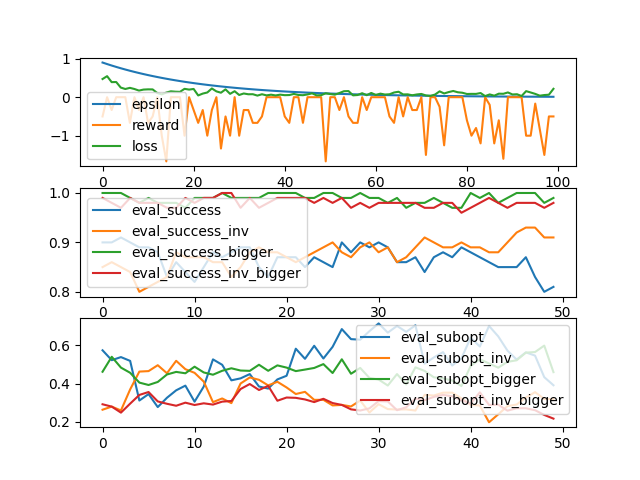
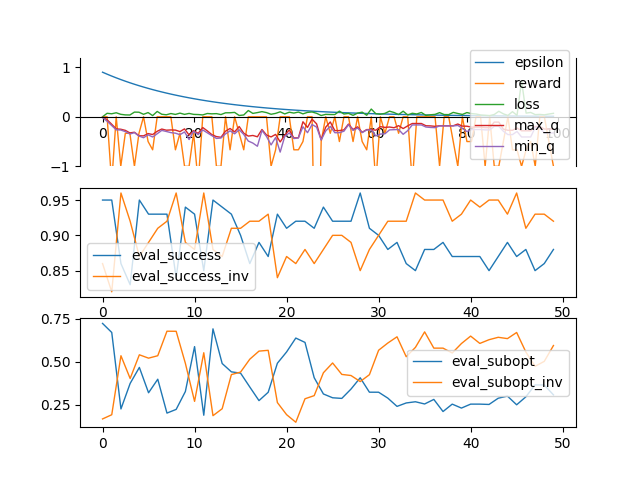
better plotting longer optimization

diff --git a/planner/mapf_with_rl/mapf_with_rl.py b/planner/mapf_with_rl/mapf_with_rl.py
@@ -153,10 +153,15 @@ class Qfunction(torch.nn.Module):
     def __init__(self, num_node_features, num_actions,
                  hidden_channels) -> None:
         super().__init__()
+        INIT_STD = .01
         self.conv1 = GCNConv(num_node_features, hidden_channels)
         self.conv2 = GCNConv(hidden_channels, hidden_channels)
         # self.conv3 = GCNConv(hidden_channels, hidden_channels)
         self.lin = Linear(hidden_channels*3, num_actions)
+
+        for net in [self.conv1, self.conv2, self.lin]:
+            torch.nn.init.normal_(net.weight, 0, INIT_STD)
+            torch.nn.init.normal_(net.bias, 0, INIT_STD)
 
     def forward(self, data: Data):
         x = data.x
@@ -288,8 +293,8 @@ def q_learning(n_episodes: int, eps_start: float,
     n_data_test = 100
     data_test_small = make_useful_scenarios(
         n_data_test, n_episodes * 11, ignore_finished_agents, 4, 3)
-    data_test_bigger = make_useful_scenarios(
-        n_data_test, n_episodes * 11, ignore_finished_agents, 8, 6)
+    # data_test_bigger = make_useful_scenarios(
+    #     n_data_test, n_episodes * 11, ignore_finished_agents, 8, 6)
 
     # init qfun
     qfun = Qfunction(9, 2, 16)
@@ -299,7 +304,7 @@ def q_learning(n_episodes: int, eps_start: float,
     # replay memory
     # (state, action, reward, next state)
     d: List[Tuple[Data, int, float, Optional[Data]]] = []
-    d_max_len = 200
+    d_max_len = n_training_batch * 3
 
     # optimizer
     optimizer = torch.optim.Adam(
@@ -309,23 +314,25 @@ def q_learning(n_episodes: int, eps_start: float,
     # size changes
     training_sizes = {
         .0: (4, 3),
-        .7: (5, 4),
-        .8: (5, 5),
-        .9: (8, 6)
+        # .7: (5, 4),
+        # .8: (5, 5),
+        # .9: (8, 6)
     }
 
     # stats
     epsilons = []
     rewards = []
     loss_s = []
+    max_q = []
+    min_q = []
     eval_success = []
     eval_subopt = []
     eval_success_inv = []
     eval_subopt_inv = []
-    eval_success_bigger = []
-    eval_subopt_bigger = []
-    eval_success_inv_bigger = []
-    eval_subopt_inv_bigger = []
+    # eval_success_bigger = []
+    # eval_subopt_bigger = []
+    # eval_success_inv_bigger = []
+    # eval_subopt_inv_bigger = []
     stat_every = max(1, int(n_episodes / 100))
     eval_every = max(1, int(n_episodes / 50))
     i_o = 0  # count optimizations
@@ -351,7 +358,8 @@ def q_learning(n_episodes: int, eps_start: float,
                     action = int(random.random())
                 else:  # exploitation
                     # 5
-                    action, _ = qfun.get_action_and_q_value_training(state)
+                    action, [qvals] = qfun.get_action_and_q_value_training(
+                        state)
                 # 6
                 next_state, reward = scenario.step(action)
                 # 7
@@ -385,6 +393,8 @@ def q_learning(n_episodes: int, eps_start: float,
             rewards.append(reward)
             loss_s.append(float(loss))
             epsilons.append(epsilon)
+            max_q.append(float(max(qvals)))
+            min_q.append(float(min(qvals)))
         if i_e % eval_every == 0:
             # evaluation qfun
             print("small")
@@ -398,17 +408,17 @@ def q_learning(n_episodes: int, eps_start: float,
                 inverse=True)
             eval_success_inv.append(success_inv)
             eval_subopt_inv.append(subopt_inv)
-            print("big")
-            success_bigger, subopt_bigger = evaluate(
-                data_test_bigger, qfun, ignore_finished_agents,
-                inverse=False)
-            eval_success_bigger.append(success_bigger)
-            eval_subopt_bigger.append(subopt_bigger)
-            success_inv_bigger, subopt_inv_bigger = evaluate(
-                data_test_bigger, qfun, ignore_finished_agents,
-                inverse=True)
-            eval_success_inv_bigger.append(success_inv_bigger)
-            eval_subopt_inv_bigger.append(subopt_inv_bigger)
+            # print("big")
+            # success_bigger, subopt_bigger = evaluate(
+            #     data_test_bigger, qfun, ignore_finished_agents,
+            #     inverse=False)
+            # eval_success_bigger.append(success_bigger)
+            # eval_subopt_bigger.append(subopt_bigger)
+            # success_inv_bigger, subopt_inv_bigger = evaluate(
+            #     data_test_bigger, qfun, ignore_finished_agents,
+            #     inverse=True)
+            # eval_success_inv_bigger.append(success_inv_bigger)
+            # eval_subopt_inv_bigger.append(subopt_inv_bigger)
         del scenario
         del state
         del next_state
@@ -417,19 +427,24 @@ def q_learning(n_episodes: int, eps_start: float,
 
     # print stats
     fig, (ax1, ax2, ax3) = plt.subplots(3, 1)
-    ax1.plot(epsilons, label="epsilon")
-    ax1.plot(rewards, label="reward")
-    ax1.plot(loss_s, label="loss")
+    ax1.plot(epsilons, label="epsilon", linewidth=1)
+    ax1.plot(rewards, label="reward", linewidth=1)
+    ax1.plot(loss_s, label="loss", linewidth=1)
+    ax1.plot(max_q, label="max_q", linewidth=1)
+    ax1.plot(min_q, label="min_q", linewidth=1)
+    ax1.set_ylim(bottom=-1)
+    ax1.spines.bottom.set_position('zero')
+    ax1.spines.top.set_color('none')
     ax1.legend()
-    ax2.plot(eval_success, label="eval_success")
-    ax2.plot(eval_success_inv, label="eval_success_inv")
-    ax2.plot(eval_success_bigger, label="eval_success_bigger")
-    ax2.plot(eval_success_inv_bigger, label="eval_success_inv_bigger")
+    ax2.plot(eval_success, label="eval_success", linewidth=1)
+    ax2.plot(eval_success_inv, label="eval_success_inv", linewidth=1)
+    # ax2.plot(eval_success_bigger, label="eval_success_bigger", linewidth=1)
+    # ax2.plot(eval_success_inv_bigger, label="eval_success_inv_bigger", linewidth=1)
     ax2.legend()
-    ax3.plot(eval_subopt, label="eval_subopt")
-    ax3.plot(eval_subopt_inv, label="eval_subopt_inv")
-    ax3.plot(eval_subopt_bigger, label="eval_subopt_bigger")
-    ax3.plot(eval_subopt_inv_bigger, label="eval_subopt_inv_bigger")
+    ax3.plot(eval_subopt, label="eval_subopt", linewidth=1)
+    ax3.plot(eval_subopt_inv, label="eval_subopt_inv", linewidth=1)
+    # ax3.plot(eval_subopt_bigger, label="eval_subopt_bigger", linewidth=1)
+    # ax3.plot(eval_subopt_inv_bigger, label="eval_subopt_inv_bigger", linewidth=1)
     ax3.legend()
     plt.savefig('planner/mapf_with_rl/mapf_with_rl.png')
     plt.show()
@@ -438,7 +453,7 @@ def q_learning(n_episodes: int, eps_start: float,
 if __name__ == "__main__":
     torch.manual_seed(0)
     q_learning(
-        n_episodes=500,
+        n_episodes=2000,
         eps_start=.9,
         c=10,
         gamma=.99,

diff --git a/sim/decentralized/iterators.py b/sim/decentralized/iterators.py
@@ -342,6 +342,6 @@ def get_iterator_fun(type: IteratorType):
     if type is IteratorType.WAITING:
         return iterate_waiting
     elif type is IteratorType.BLOCKING1:
-        return lambda agents, ignor_fa: iterate_blocking(agents, 1, ignor_fa)
+        return lambda agents, ignore_fa: iterate_blocking(agents, 1, ignore_fa)
     elif type is IteratorType.BLOCKING3:
-        return lambda agents, ignor_fa: iterate_blocking(agents, 3, ignor_fa)
+        return lambda agents, ignore_fa: iterate_blocking(agents, 3, ignore_fa)
